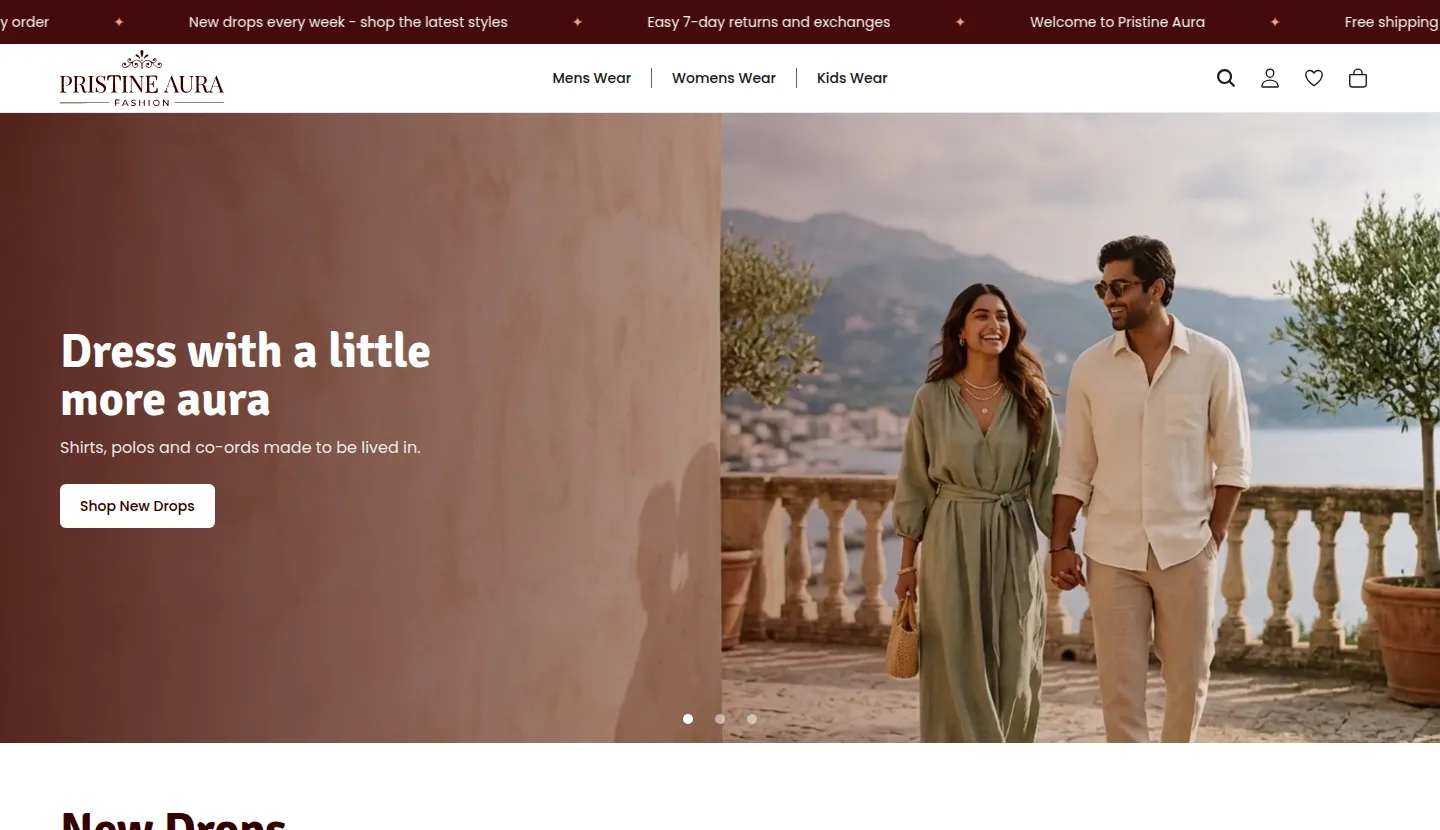
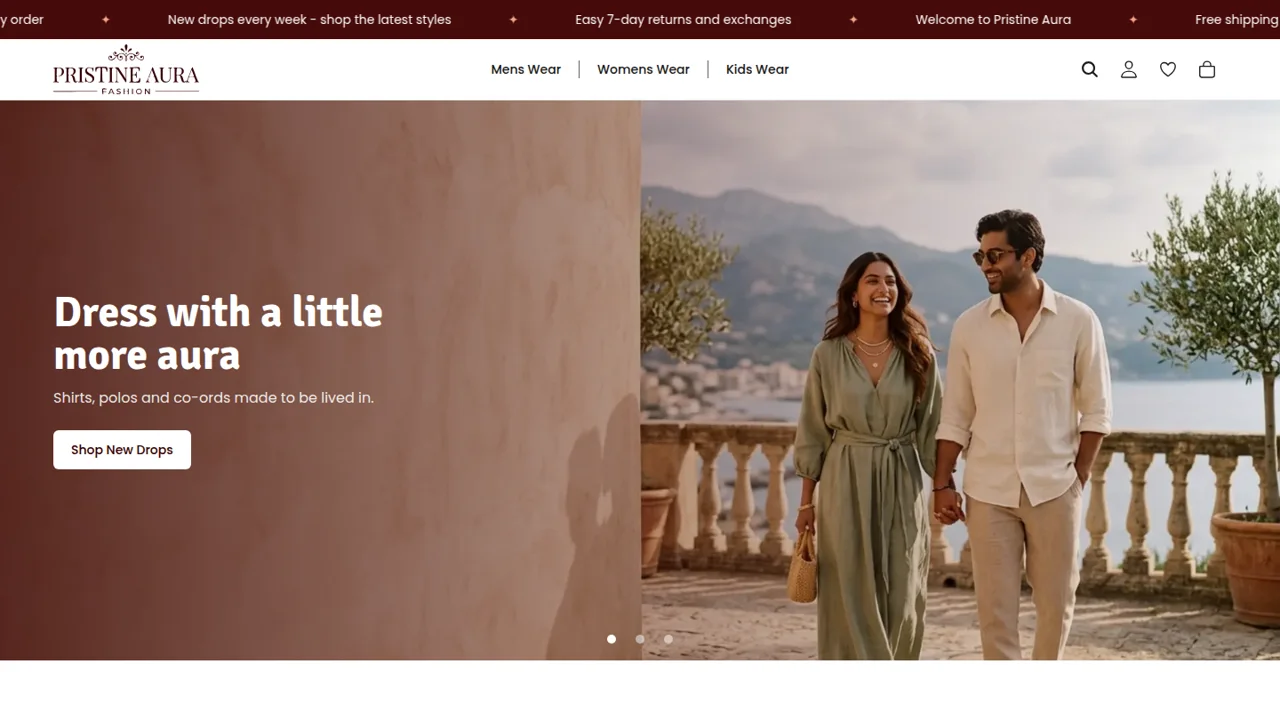
Case study: show Pristine Aura website screenshot as the hero, uncropped

diff --git a/src/universe/CaseStudyScreen.jsx b/src/universe/CaseStudyScreen.jsx
@@ -160,7 +160,7 @@ export function CaseStudyScreen({ project, onClose }) {
           </div>
 
           {plate ? (
-            <figure className="case__plate">
+            <figure className={`case__plate${plate === project.image ? " case__plate--shot" : ""}`}>
               <img src={plate} alt="" decoding="async" />
             </figure>
           ) : null}

diff --git a/src/universe/CaseStudyScreen.css b/src/universe/CaseStudyScreen.css
@@ -209,6 +209,12 @@
   }
 }
 
+/* A real screenshot used as the plate: show all of it, no zoom or drift. */
+.case__plate--shot img {
+  animation: none;
+  transform: none;
+}
+
 .case__demo {
   margin: 20px 0 0;
 }
